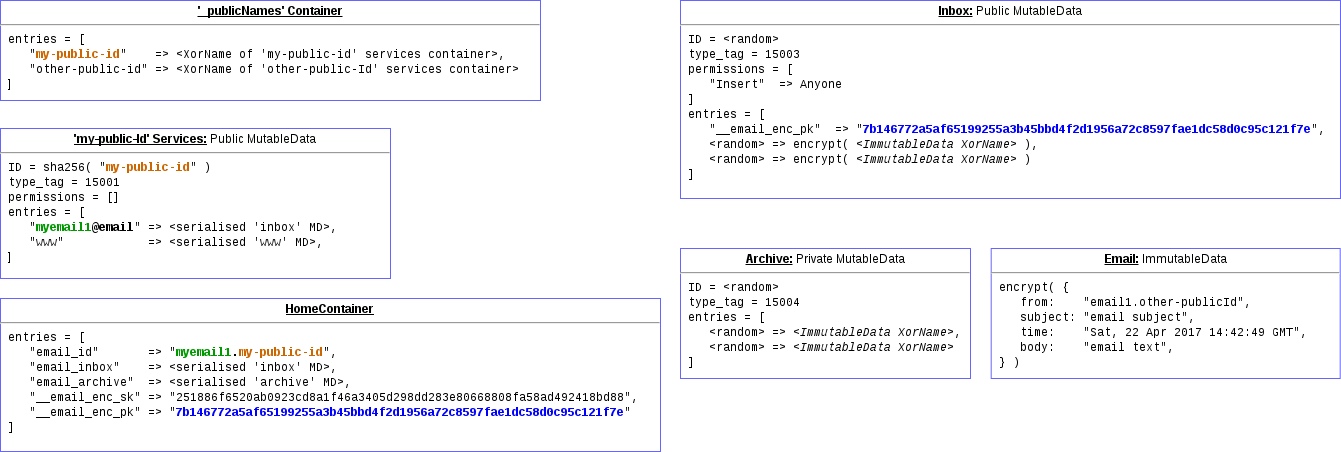
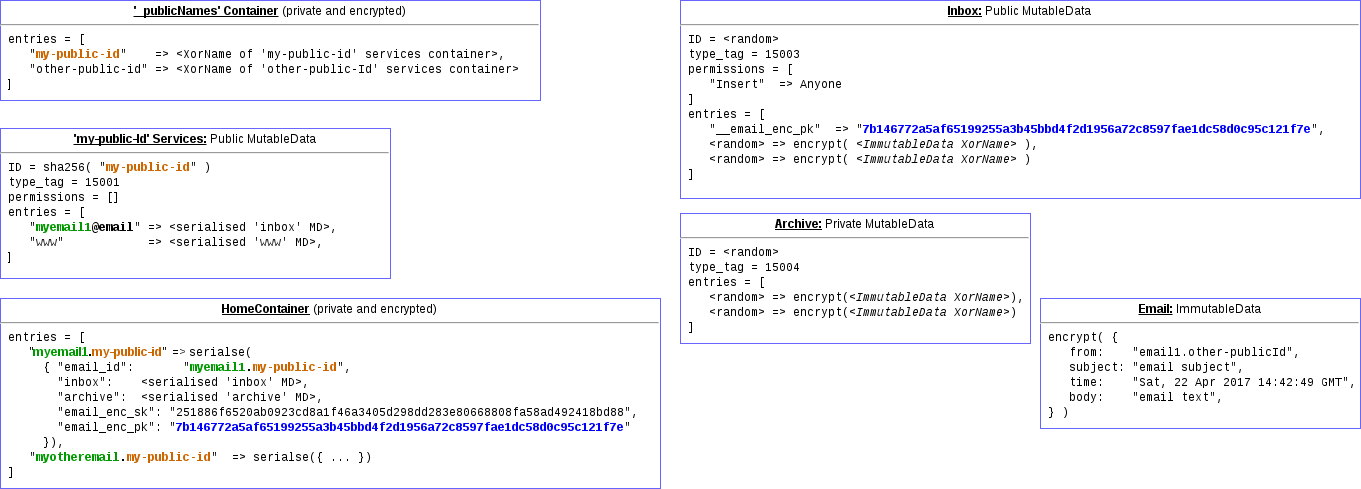
docs/Update design diagram and minor refactoring, including the use of sha3

diff --git a/email_app/app/safenet_comm.js b/email_app/app/safenet_comm.js
@@ -1,8 +1,8 @@
 import { shell } from 'electron';
 import { CONSTANTS, MESSAGES, SAFE_APP_ERROR_CODES } from './constants';
 import { initializeApp, fromAuthURI } from 'safe-app';
-import { getAuthData, saveAuthData, clearAuthData, hashPublicId, genRandomEntryKey,
-         genKeyPair, encrypt, decrypt, genServiceInfo, deserialiseArray, parseUrl } from './utils/app_utils';
+import { getAuthData, saveAuthData, clearAuthData, genRandomEntryKey,
+         genKeyPair, encrypt, decrypt, splitPublicIdAndService, deserialiseArray, parseUrl } from './utils/app_utils';
 import pkg from '../package.json';
 
 const APP_INFO = {
@@ -22,6 +22,15 @@ const APP_INFO = {
     _publicNames: ['Read', 'Insert', 'Update']
   }
 };
+
+const genServiceInfo = (app, emailId) => {
+  let serviceInfo = splitPublicIdAndService(emailId);
+  return app.crypto.sha3Hash(serviceInfo.publicId)
+      .then((hashed) => {
+        serviceInfo.serviceAddr = hashed;
+        return serviceInfo;
+      });
+}
 
 const requestAuth = () => {
   return initializeApp(APP_INFO.info)
@@ -216,38 +225,33 @@ const createArchive = (app) => {
 
 const addEmailService = (app, serviceInfo, inbox_serialised) => {
   return app.mutableData.newPublic(serviceInfo.serviceAddr, CONSTANTS.TAG_TYPE_DNS)
-      .then((md) => md.getVersion()
-        .then((version) => {
-          return md.getEntries()
-            .then((entries) => entries.insert(serviceInfo.serviceName, inbox_serialised))
-            .then(() => md);
-        }, (err) => {
-          if (err.code === SAFE_APP_ERROR_CODES.ERR_DATA_NOT_FOUND) {
-            return md.quickSetup({ [serviceInfo.serviceName]: inbox_serialised });
-          }
-          throw err;
-        })
-      );
+      .then((md) => app.mutableData.newMutation()
+        .then((mut) => mut.insert(serviceInfo.serviceName, inbox_serialised)
+          .then(() => md.applyEntriesMutation(mut))
+        )
+        .then(() => md));
 }
 
 const createPublicIdAndEmailService = (app, pub_names_md, serviceInfo,
                                                           inbox_serialised) => {
-  return addEmailService(app, serviceInfo, inbox_serialised)
-      .then((md) => md.getNameAndTag())
-      .then((services) => app.mutableData.newMutation()
-        .then((mut) => insertEncrypted(pub_names_md, mut, serviceInfo.publicId, services.name)
+  return app.mutableData.newPublic(serviceInfo.serviceAddr, CONSTANTS.TAG_TYPE_DNS)
+      .then((md) => md.quickSetup({ [serviceInfo.serviceName]: inbox_serialised }))
+      .then((_) => app.mutableData.newMutation()
+        .then((mut) => insertEncrypted(pub_names_md, mut, serviceInfo.publicId, serviceInfo.serviceAddr)
           .then(() => pub_names_md.applyEntriesMutation(mut))
-        ))
+        ));
 }
 
 export const setupAccount = (app, emailId) => {
   let newAccount = {};
   let inbox_serialised;
   let inbox;
+  let serviceInfo;
   let key_pair = genKeyPair();
-  let serviceInfo = genServiceInfo(emailId);
 
-  return createInbox(app, key_pair.publicKey)
+  return genServiceInfo(app, emailId)
+      .then((info) => serviceInfo = info)
+      .then(() => createInbox(app, key_pair.publicKey))
       .then((md) => inbox = md)
       .then(() => createArchive(app))
       .then((md) => newAccount = {id: serviceInfo.emailId, inbox_md: inbox, archive_md: md,
@@ -279,8 +283,10 @@ const writeEmailContent = (app, email, pk) => {
 }
 
 export const storeEmail = (app, email, to) => {
-  let serviceInfo = genServiceInfo(to);
-  return app.mutableData.newPublic(serviceInfo.serviceAddr, CONSTANTS.TAG_TYPE_DNS)
+  let serviceInfo;
+  return genServiceInfo(app, to)
+      .then((info) => serviceInfo = info)
+      .then(() => app.mutableData.newPublic(serviceInfo.serviceAddr, CONSTANTS.TAG_TYPE_DNS))
       .then((md) => md.get(serviceInfo.serviceName))
       .catch((err) => {throw MESSAGES.EMAIL_ID_NOT_FOUND})
       .then((service) => app.mutableData.fromSerial(service.buf))

diff --git a/email_app/app/components/create_account.js b/email_app/app/components/create_account.js
@@ -12,7 +12,7 @@ export default class CreateAccount extends Component {
   }
 
   storeCreatedAccount() {
-    const { newAccount, storeNewAccount, createAccountError, refreshConfig } = this.props;
+    const { newAccount, storeNewAccount, createAccountError } = this.props;
     return storeNewAccount(newAccount)
         .then((_) => this.context.router.push('/home'))
         .catch((e) => createAccountError(new Error(e)));
@@ -33,7 +33,8 @@ export default class CreateAccount extends Component {
     return createAccount(emailId)
         .then(this.storeCreatedAccount)
         .catch((err) => {
-          if (err.code === SAFE_APP_ERROR_CODES.ERR_DATA_EXISTS) {
+          if (err.code === SAFE_APP_ERROR_CODES.ERR_DATA_EXISTS
+               || err.code === SAFE_APP_ERROR_CODES.ENTRY_ALREADY_EXISTS) {
             return createAccountError(new Error(MESSAGES.EMAIL_ALREADY_TAKEN));
           }
           return createAccountError(err);
@@ -42,11 +43,12 @@ export default class CreateAccount extends Component {
 
   handleChooseAccount(e) {
     e.preventDefault();
-    const { refreshConfig } = this.props;
+    const { refreshConfig, createAccountError } = this.props;
     const emailId = this.emailId.value;
 
     return refreshConfig(emailId)
         .then((_) => this.context.router.push('/home'))
+        .catch((e) => createAccountError(new Error(e)));
   };
 
   render() {

diff --git a/email_app/app/utils/app_utils.js b/email_app/app/utils/app_utils.js
@@ -23,7 +23,7 @@ export const clearAuthData = () => {
   // window.localStorage.removeItem(CONSTANTS.LOCAL_AUTH_DATA_KEY);
 };
 
-export const genServiceInfo = (emailId) => {
+export const splitPublicIdAndService = (emailId) => {
   // It supports complex email IDs, e.g. 'emailA.myshop', 'emailB.myshop'
   let str = emailId.replace(/\.+$/, '');
   let toParts = str.split('.');
@@ -31,13 +31,8 @@ export const genServiceInfo = (emailId) => {
   const serviceId =  str.slice(0, -1 * (publicId.length+1));
   emailId = (serviceId.length > 0 ? (serviceId + '.') : '') + publicId;
   const serviceName = serviceId + CONSTANTS.SERVICE_NAME_POSTFIX;
-  const serviceAddr = hashPublicId(publicId);
-  return {emailId, publicId, serviceAddr, serviceName};
+  return {emailId, publicId, serviceName};
 }
-
-export const hashPublicId = publicId => {
-  return crypto.createHash('sha256').update(publicId).digest();
-};
 
 export const genRandomEntryKey = () => {
   return crypto.randomBytes(32).toString('hex');
